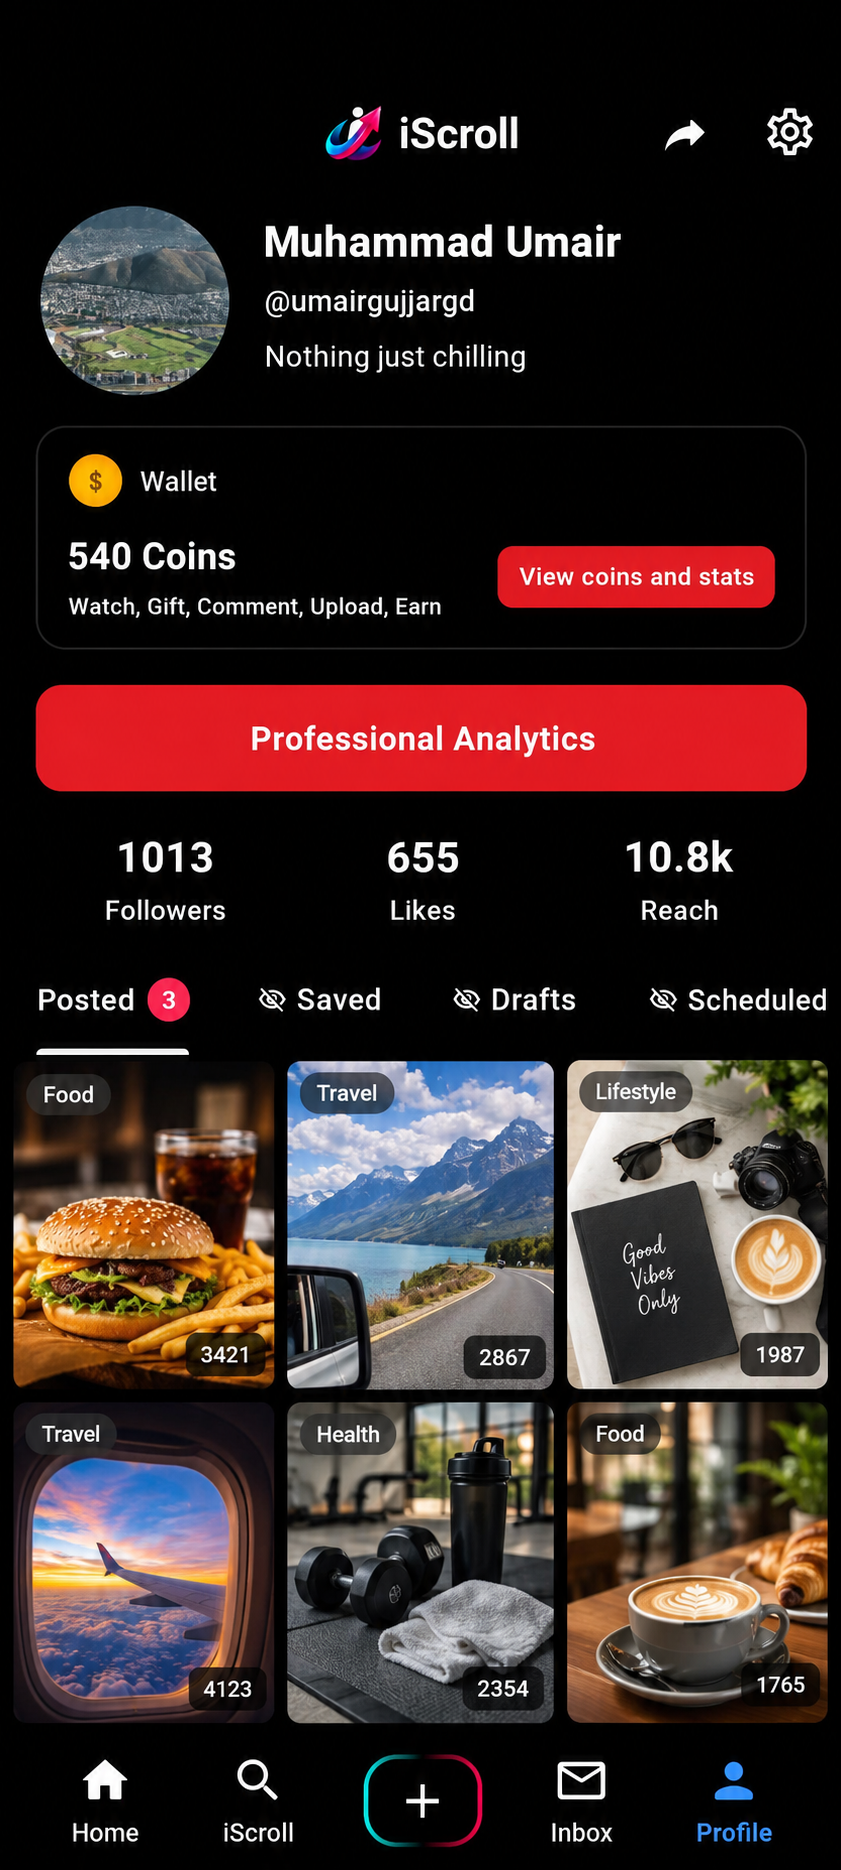
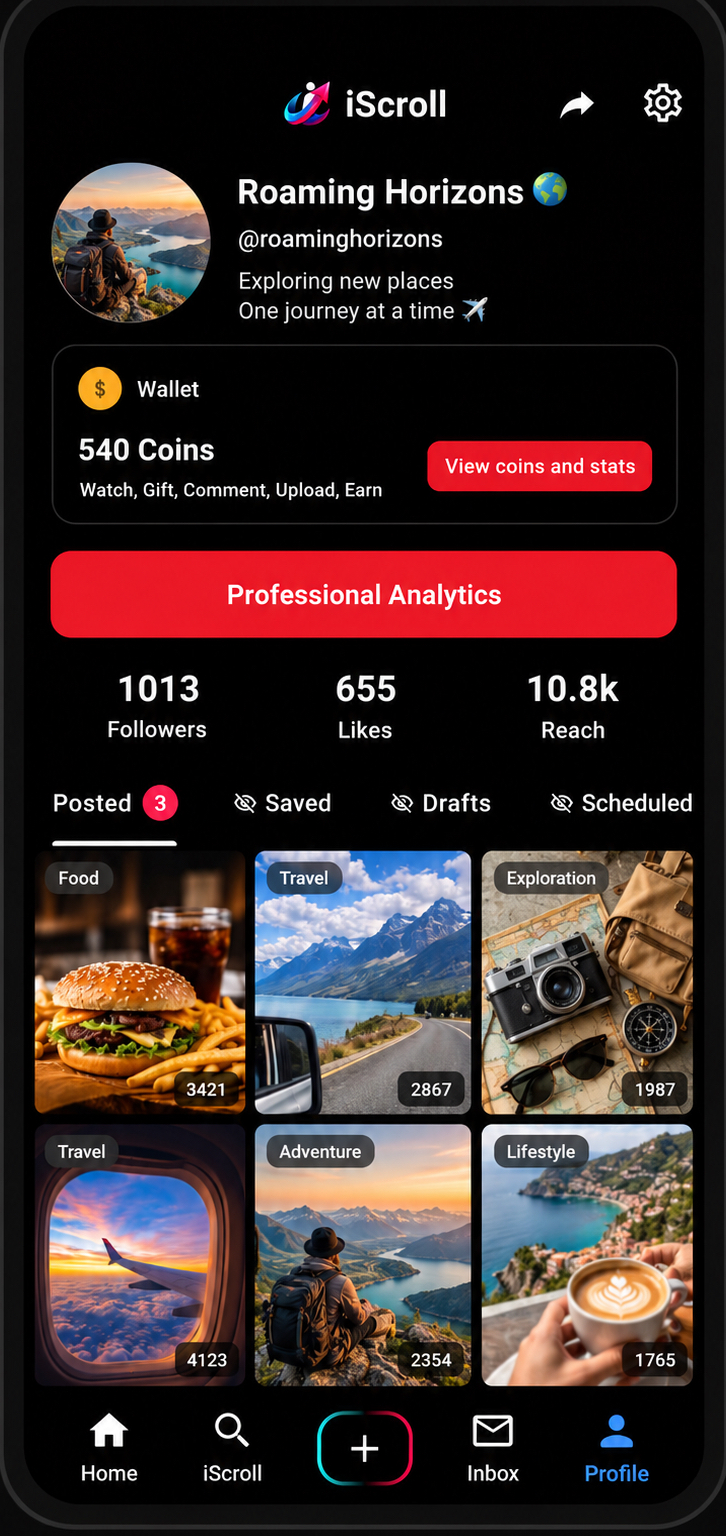
image replaced-------ug

diff --git a/index.html b/index.html
@@ -32,8 +32,8 @@
       .site-nav { padding: 14px 20px; }
       .nav-desktop { display: none !important; }
       .site-footer { padding: 48px 20px 28px; }
-      .footer-grid { grid-template-columns: 1fr; gap: 28px; text-align: center; }
-      .footer-brand { text-align: center; }
+      .footer-grid { grid-template-columns: 1fr 1fr; gap: 28px 16px; text-align: center; }
+      .footer-brand { grid-column: 1 / -1; text-align: center; }
       .footer-contact { align-items: center; }
       .footer-bottom { flex-direction: column; align-items: center; text-align: center; gap: 18px; }
       .footer-socials { order: 2; }
